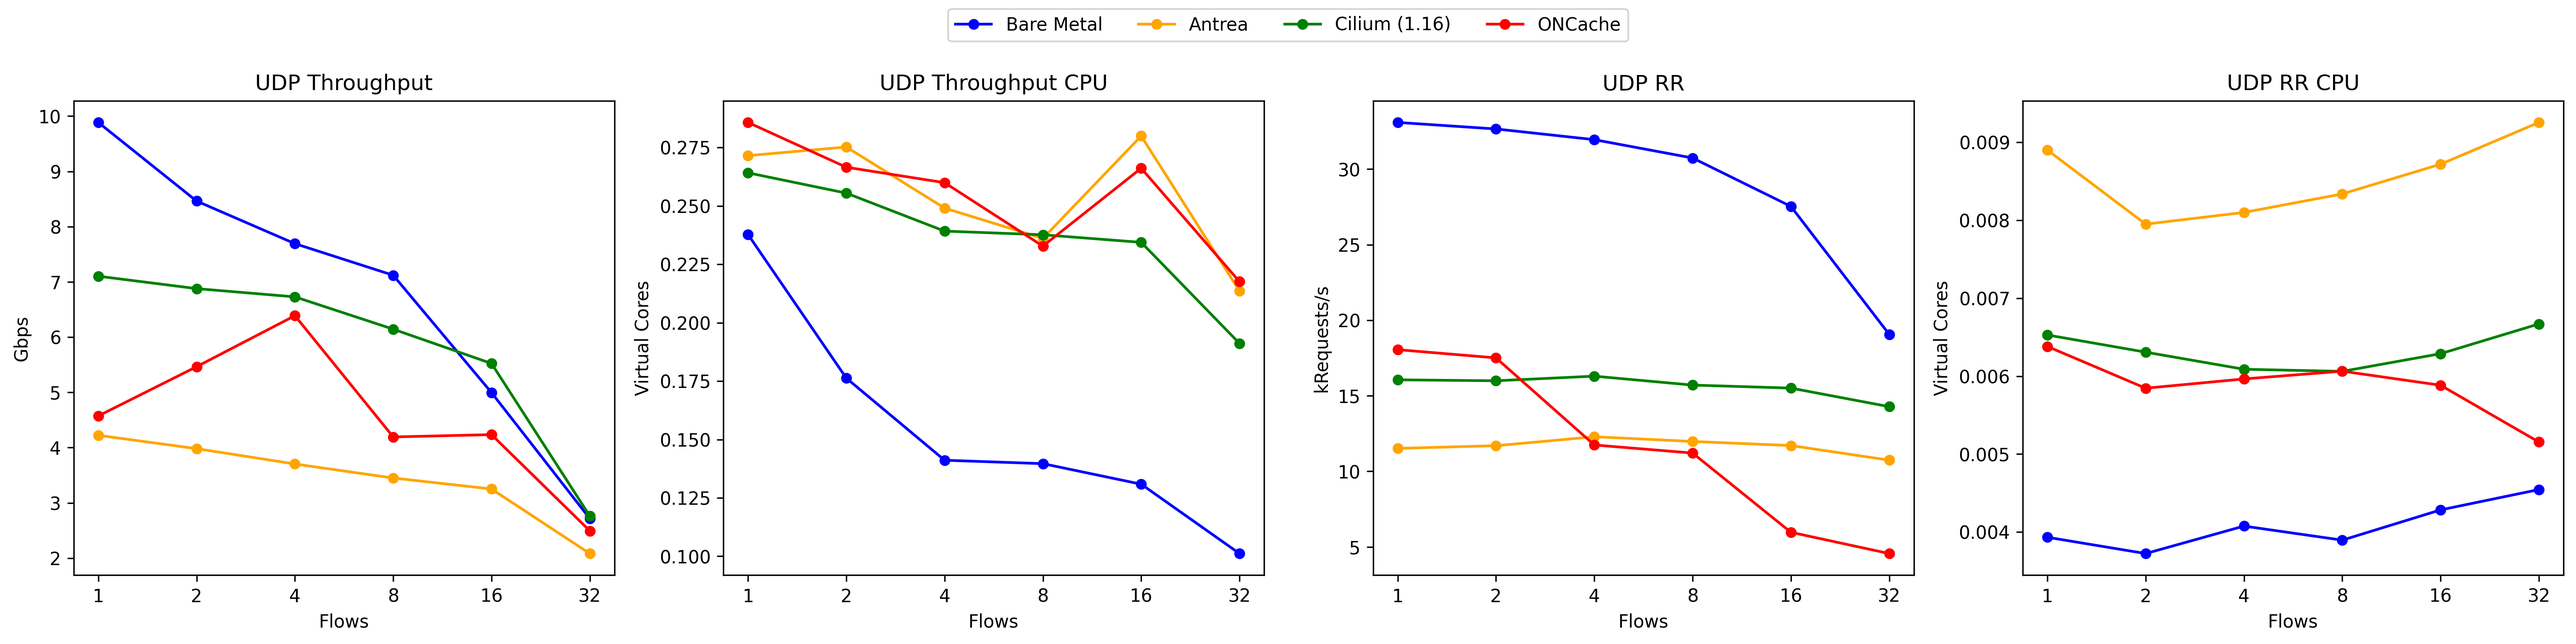
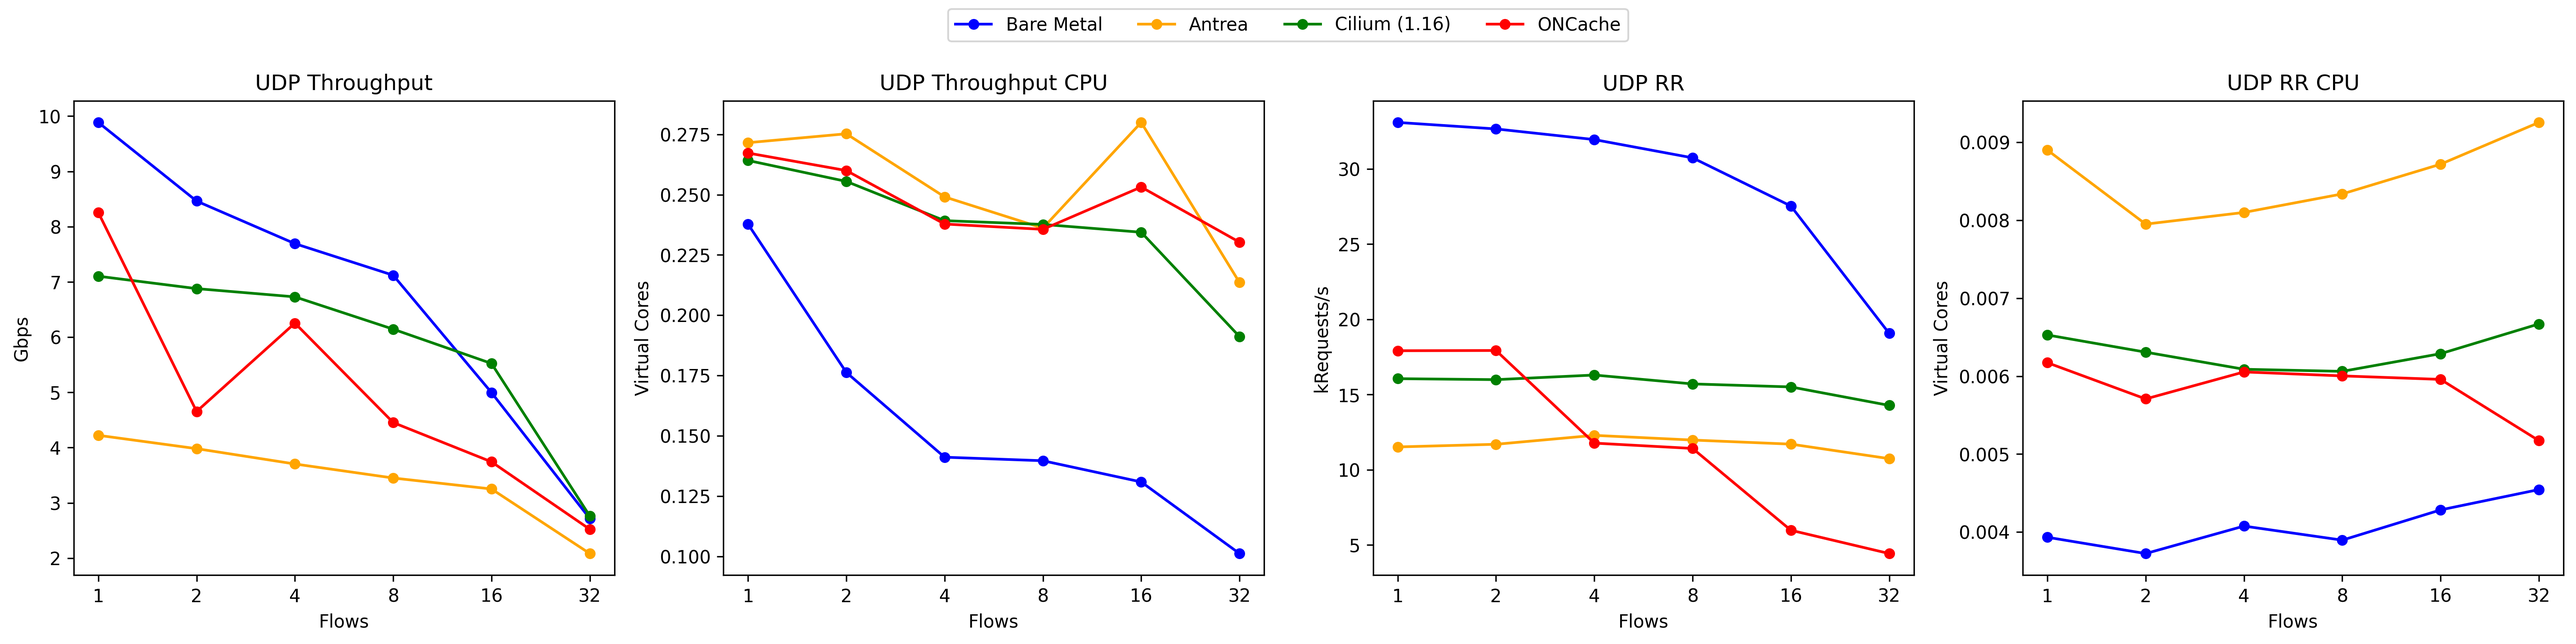
INcrease max entry

diff --git a/oncache/kernel/ebpf_plugin.c b/oncache/kernel/ebpf_plugin.c
@@ -1,7 +1,7 @@
 #include "ebpf_plugin.h"
 
 // Maximum number of entries in the caches
-#define MAX_ENTRIES 1024
+#define MAX_ENTRIES 4096
 
 // Marker for missed packets (note: first 2 bits are reserved for ECN)
 #define MISSED_MARK (1 << 2)
